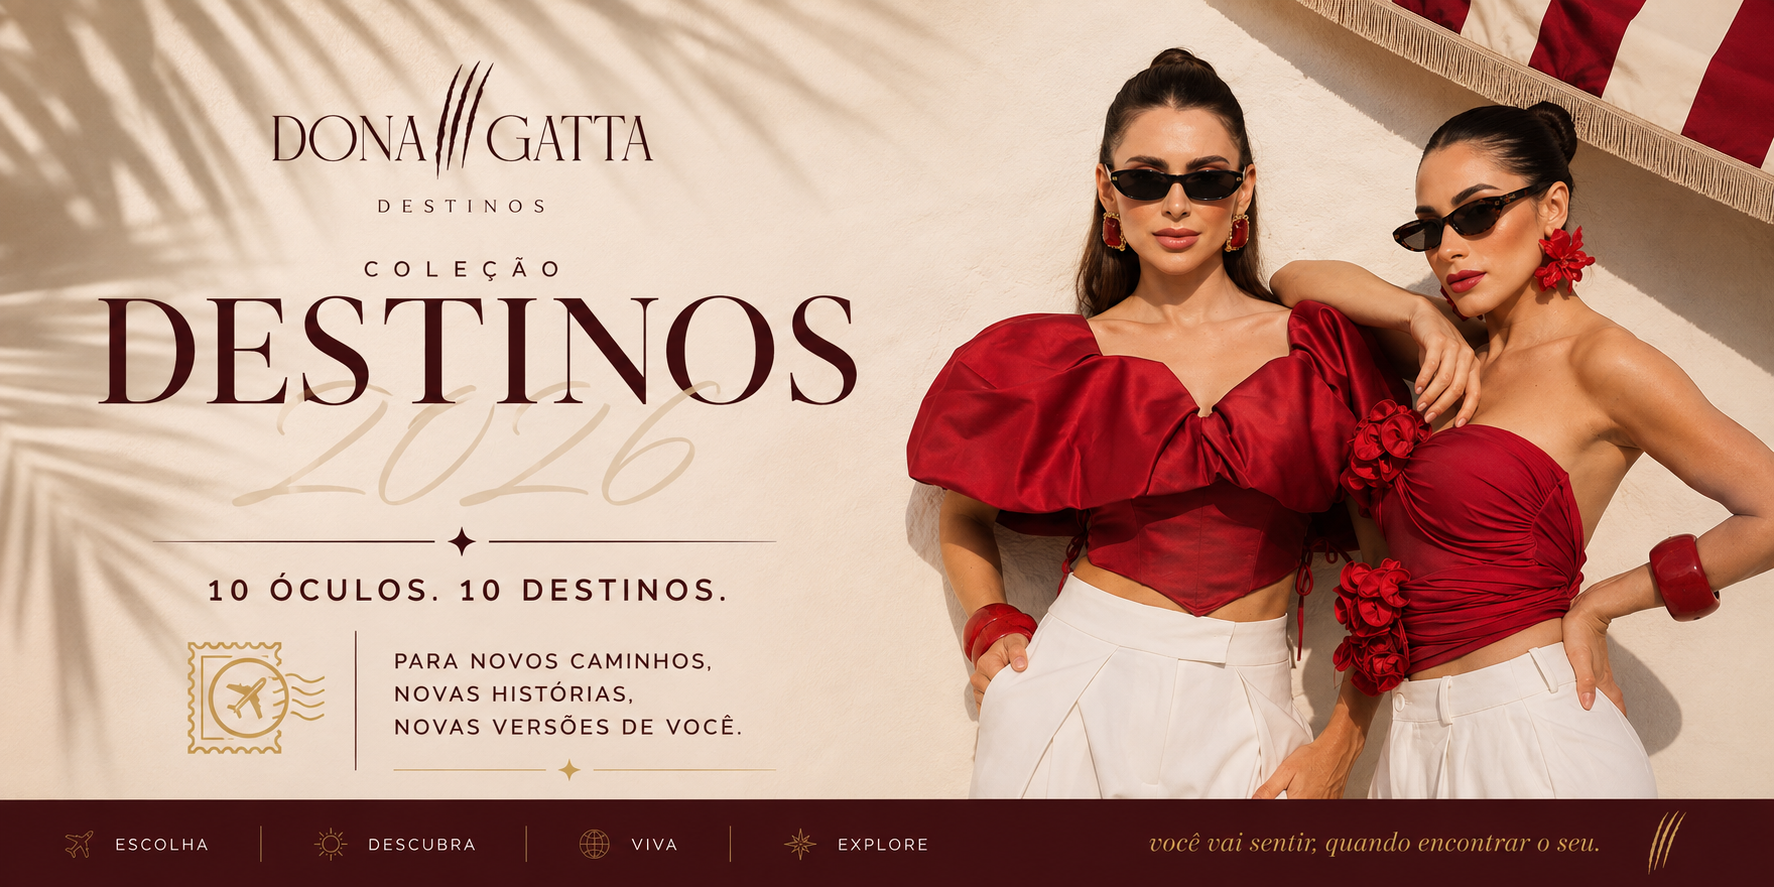
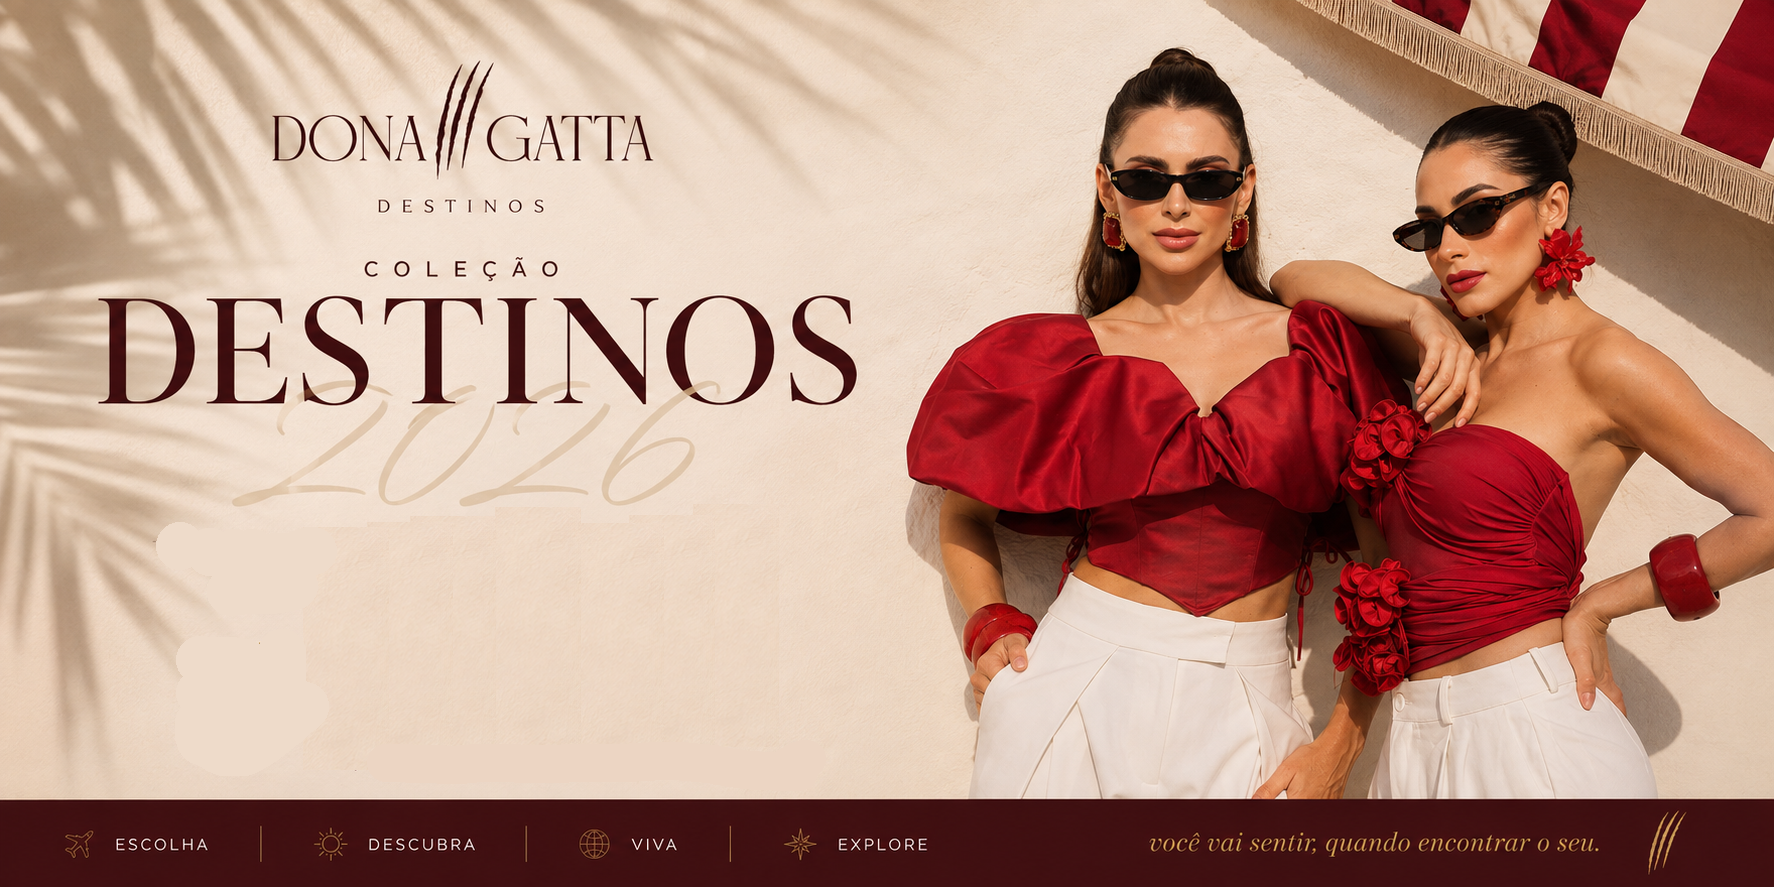
Aplicado entre as seções da página inicial:
- Linhas douradas com estrela central, no mesmo estilo do divisor da capa.
  - Animação suave de fade e expansão ao aparecer durante a rolagem.
  - Espaçamento adaptado para desktop e mobile.
  - Atualizei também o cache PWA para incluir o novo recurso.

Changed region(s): [[0.093, 0.6088, 0.403, 0.7001], [0.217, 0.7306, 0.403, 0.8828], [0.093, 0.7001, 0.186, 0.8523]]

diff --git a/index.html b/index.html
@@ -25,14 +25,15 @@
     @media(max-width:900px){.launch-grid,.brand-grid{grid-template-columns:1fr;gap:38px}.launch-gallery{height:520px;max-width:650px}.brand-grid{gap:45px}}
     @media(max-width:600px){.launch{padding:62px 0}.launch-grid{gap:31px}.launch-gallery{height:390px;gap:8px}.launch-gallery img:last-child{margin-top:32px;height:calc(100% - 32px)}.launch-copy h2{font-size:42px}.launch-copy p{font-size:19px}.launch-data{gap:18px}.brand-story{padding:62px 0}.brand-word{font-size:53px}.brand-story p{font-size:20px}.file-card{padding:15px}}
     .product-image{cursor:zoom-in}.product-modal{position:fixed;inset:0;z-index:50;display:grid;place-items:center;padding:22px;background:rgba(45,9,8,.74);opacity:0;visibility:hidden;transition:opacity .3s,visibility .3s}.product-modal.open{opacity:1;visibility:visible}.modal-card{width:min(860px,100%);background:#fffaf5;display:grid;grid-template-columns:1.05fr .95fr;position:relative;transform:translateY(18px) scale(.98);transition:transform .35s ease;overflow:hidden}.product-modal.open .modal-card{transform:none}.modal-image{min-height:450px;background:#f3e9e0;display:grid;place-items:center;padding:35px}.modal-image img{max-width:100%;max-height:430px;object-fit:contain;mix-blend-mode:multiply}.modal-content{padding:56px 45px;display:flex;justify-content:center;flex-direction:column}.modal-content .eyebrow{color:#9a6333;margin-bottom:15px}.modal-content h2{font-size:48px;line-height:.85;font-weight:400;margin:0 0 15px}.modal-content p{font-family:"Cormorant Garamond",serif;font-size:20px;line-height:1.25;margin:0 0 25px}.modal-content .price{font-size:13px;margin-bottom:26px}.modal-close{position:absolute;right:14px;top:13px;background:transparent;border:0;color:var(--wine);font-size:31px;font-weight:300;line-height:1;cursor:pointer;z-index:2}.whatsapp-btn{background:#315f42;border-color:#315f42;width:100%;letter-spacing:.1em}.whatsapp-btn:hover{color:#315f42}.modal-note{font-size:10px!important;margin:14px 0 0!important;color:#7e6259;text-align:center}@media(max-width:600px){.modal-card{grid-template-columns:1fr;max-height:calc(100svh - 44px);overflow:auto}.modal-image{min-height:260px;height:38svh;padding:22px}.modal-image img{max-height:100%}.modal-content{padding:28px 25px 25px}.modal-content h2{font-size:39px}.modal-content p{font-size:18px;margin-bottom:16px}.modal-content .price{margin-bottom:18px}}
-    .hero-bg{inset:0;background-image:url('Estilo01.webp')}.hero-alt{display:none}.hero-feature{display:block;width:188px;height:258px;object-fit:cover;object-position:center;border:1px solid rgba(255,255,255,.65);box-shadow:0 18px 38px rgba(64,16,16,.3);margin:0 auto 18px;opacity:0;animation:hero-feature-fade 1.1s .2s cubic-bezier(.16,1,.3,1) forwards}@keyframes hero-feature-fade{from{opacity:0;transform:translateY(20px) scale(.96);filter:blur(6px)}to{opacity:1;transform:none;filter:none}}.hero-actions{display:flex;justify-content:center;gap:10px}.hero-actions .btn{width:230px;min-height:58px;padding:12px 16px;text-align:center;line-height:1.35;letter-spacing:.1em}.hero-actions .btn-destinations{background:rgba(64,16,16,.88);border-color:rgba(255,255,255,.55);font-size:10px}.hero-actions .btn-destinations:hover{background:#d5a667;color:#401010;border-color:#d5a667}.hero-actions .btn-identity{background:#fff;color:var(--wine);border-color:#fff}.brand-board{border:1px solid rgba(231,194,151,.45);background:linear-gradient(135deg,rgba(106,36,31,.55),rgba(42,6,6,.18));overflow:hidden}.brand-principle{display:grid;grid-template-columns:64px 1fr;gap:19px;align-items:center;padding:21px 23px;position:relative}.brand-principle:not(:last-child){border-bottom:1px solid rgba(215,169,103,.43)}.brand-icon{width:59px;height:59px;border:1px solid #d5a667;color:#e0b76f;display:grid;place-items:center;font-size:27px;transition:transform .3s,background .3s}.brand-principle:hover .brand-icon{transform:rotate(-6deg) scale(1.06);background:rgba(213,166,103,.12)}.brand-index{font-size:9px;color:#d5a667;letter-spacing:.2em}.brand-principle h3{margin:4px 0 5px;color:#fff4e9;font-size:15px;line-height:1.1;letter-spacing:.08em;text-transform:uppercase;font-weight:500}.brand-principle p{margin:0!important;color:#e8cdbd!important;font:17px/1.15 "Cormorant Garamond",Georgia,serif!important;max-width:none!important}.brand-board img{display:none}@media(max-width:600px){.hero-feature{width:166px;height:224px;margin:0 0 15px;object-position:center}.hero-actions{display:grid;grid-template-columns:1fr;width:100%;gap:8px}.hero-actions .btn{width:100%;min-height:48px;padding:10px 14px;font-size:9px}.hero-actions .btn-destinations{font-size:9px}.brand-board{margin-top:-8px}.brand-principle{grid-template-columns:51px 1fr;gap:14px;padding:18px 16px}.brand-icon{width:49px;height:49px;font-size:23px}.brand-principle h3{font-size:12px}.brand-principle p{font-size:16px!important}}
+    .hero-bg{inset:0;background-image:url('Estilo01.webp')}.hero-alt{display:none}.hero-feature{display:block;width:188px;height:258px;object-fit:cover;object-position:center;border:1px solid rgba(255,255,255,.65);box-shadow:0 18px 38px rgba(64,16,16,.3);margin:0 auto 18px;opacity:0;animation:hero-feature-fade 1.1s .2s cubic-bezier(.16,1,.3,1) forwards}@keyframes hero-feature-fade{from{opacity:0;transform:translateY(20px) scale(.96);filter:blur(6px)}to{opacity:1;transform:none;filter:none}}.hero-actions{display:flex;justify-content:center;gap:10px}.hero-actions .btn{width:230px;min-height:58px;padding:12px 16px;text-align:center;line-height:1.35;letter-spacing:.1em}.hero-actions .btn-destinations{background:rgba(64,16,16,.88);border-color:rgba(255,255,255,.55);font-size:10px}.hero-actions .btn-destinations:hover{background:#d5a667;color:#401010;border-color:#d5a667}.hero-actions .btn-identity{background:#fff;color:var(--wine);border-color:#fff}.brand-board{border:1px solid rgba(231,194,151,.45);background:linear-gradient(135deg,rgba(106,36,31,.55),rgba(42,6,6,.18));overflow:hidden}.brand-principle{display:grid;grid-template-columns:64px 1fr;gap:19px;align-items:center;padding:21px 23px;position:relative}.brand-principle:not(:last-child){border-bottom:1px solid rgba(215,169,103,.43)}.brand-icon{width:59px;height:59px;border:1px solid #d5a667;color:#e0b76f;display:grid;place-items:center;font-size:27px;transition:transform .3s,background .3s}.brand-principle:hover .brand-icon{transform:rotate(-6deg) scale(1.06);background:rgba(213,166,103,.12)}.brand-index{font-size:9px;color:#d5a667;letter-spacing:.2em}.brand-principle h3{margin:4px 0 5px;color:#fff4e9;font-size:15px;line-height:1.1;letter-spacing:.08em;text-transform:uppercase;font-weight:500}.brand-principle p{margin:0!important;color:#e8cdbd!important;font:17px/1.15 "Cormorant Garamond",Georgia,serif!important;max-width:none!important}.brand-board img{display:none}@media(max-width:600px){.hero-feature{width:166px;height:224px;margin:0 auto 15px;object-position:center}.hero-actions{display:grid;grid-template-columns:1fr;width:100%;gap:8px}.hero-actions .btn{width:100%;min-height:48px;padding:10px 14px;font-size:9px}.hero-actions .btn-destinations{font-size:9px}.brand-board{margin-top:-8px}.brand-principle{grid-template-columns:51px 1fr;gap:14px;padding:18px 16px}.brand-icon{width:49px;height:49px;font-size:23px}.brand-principle h3{font-size:12px}.brand-principle p{font-size:16px!important}}
+    .hero-divider{display:flex;align-items:center;gap:12px;width:min(100%,360px);margin:0 auto 16px;color:#765022;opacity:0;animation:hero-divider-fade .8s .72s ease forwards}.hero-divider:before,.hero-divider:after{content:"";height:1px;flex:1;background:linear-gradient(90deg,transparent,#765022)}.hero-divider:after{background:linear-gradient(90deg,#765022,transparent)}.hero-divider span{font-size:28px;line-height:1;filter:drop-shadow(0 2px 3px rgba(255,245,220,.7))}@keyframes hero-divider-fade{from{opacity:0;transform:scaleX(.7)}to{opacity:1;transform:none}}@media(max-width:600px){.hero-divider{width:min(100%,310px);margin:0 auto 14px}.hero-divider span{font-size:24px}}
     .hero-actions .btn-destinations{color:#fff}
   </style>
 </head>
 <body>
   <header class="topbar"><nav class="wrap nav"><a href="#top" class="logo">DONA <i>///</i> GATTA</a><div class="links"><a class="active" href="#top">Início</a><a href="#colecoes">Coleções</a><a href="#colecoes">Óculos de sol</a><a href="#colecoes">Óculos de grau</a><a href="#sobre">Acessórios</a><a href="#footer">Sobre nós</a></div><div class="nav-icons"><button class="menu-toggle" aria-label="Abrir menu" aria-expanded="false"><span></span><span></span><span></span></button><button class="search-toggle" type="button" aria-label="Buscar"><svg viewBox="0 0 24 24" fill="none" stroke="currentColor"><circle cx="11" cy="11" r="6"/><path d="m16 16 5 5"/></svg></button></div></nav></header><aside class="mobile-menu" aria-label="Menu móvel"><a href="#top">Início</a><a href="#colecoes">Coleções</a><a href="#colecoes">Óculos de sol</a><a href="#colecoes">Óculos de grau</a><a href="#sobre">Acessórios</a><a href="#footer">Sobre nós</a><small>Dona Gatta · Coleção Destinos</small></aside>
   <main id="top">
-    <section class="hero"><div class="hero-bg"></div><div class="hero-shade"></div><div class="wrap"><div class="hero-copy reveal"><img class="hero-feature" src="Estilo03.webp" width="900" height="1600" alt="Coleção Destinos por Dona Gatta"><div class="hero-actions"><a href="#marca" class="btn btn-identity">Você tem seu estilo, a Dona tem todos.</a><a href="#colecoes" class="btn btn-destinations">Coleção DESTINOS: 10 solares, 10 destinos.<br>Você vai sentir, quando encontrar o seu.</a></div></div></div></section>
+    <section class="hero"><div class="hero-bg"></div><div class="hero-shade"></div><div class="wrap"><div class="hero-copy reveal"><img class="hero-feature" src="Estilo02.webp" width="900" height="1600" alt="Coleção Destinos por Dona Gatta"><div class="hero-divider" aria-hidden="true"><span>✦</span></div><div class="hero-actions"><a href="#marca" class="btn btn-identity">Você tem seu estilo, a Dona tem todos.</a><a href="#colecoes" class="btn btn-destinations">Coleção DESTINOS: 10 solares, 10 destinos.<br>Você vai sentir, quando encontrar o seu.</a></div></div></div></section>
     <section class="benefits"><div class="wrap"><div class="benefit"><svg viewBox="0 0 64 64"><circle cx="32" cy="32" r="14"/><path d="M32 3v10M32 51v10M3 32h10M51 32h10M11 11l7 7m28 28 7 7m0-42-7 7M18 46l-7 7"/></svg><div><strong>Proteção<br>com estilo</strong><span>lentes com proteção<br>UV 100%</span></div></div><div class="benefit"><svg viewBox="0 0 64 64"><path d="m32 6 25 15-25 37L7 21 32 6Z"/><path d="M7 21h50M32 6v52M20 40 44 40"/></svg><div><strong>Design<br>exclusivo</strong><span>armações selecionadas<br>e sofisticadas</span></div></div><div class="benefit"><svg viewBox="0 0 64 64"><path d="m32 5 4 11 12-1-7 10 7 9-12-1-4 11-4-11-12 1 7-9-7-10 12 1 4-11Z"/><path d="m9 39 3 7 8-1-5 6 3 7-7-4-6 5 1-8-7-4 8-1 2-7Z"/></svg><div><strong>Qualidade<br>premium</strong><span>materiais leves, resistentes<br>e confortáveis</span></div></div><div class="benefit"><svg viewBox="0 0 64 64"><path d="M4 16h35v28H4zM39 26h10l10 9v9H39z"/><circle cx="16" cy="49" r="5"/><circle cx="49" cy="49" r="5"/><path d="M10 23h20M10 30h13"/></svg><div><strong>Frete grátis</strong><span>nas compras acima<br>de R$299</span></div></div></div></section>
     <section class="collection" id="colecoes"><div class="wrap"><div class="section-title"><h2 class="display">MODELOS EM DESTAQUE</h2><a class="see-all" href="catalogo.html">Ver todos <b>›</b></a></div><div class="swiper products"><div class="swiper-wrapper"></div></div></div></section>
     <section class="editorial" id="sobre"><div class="editorial-copy reveal"><h2 class="display">SEU ESTILO.<br>SEU DESTINO.</h2><p>Óculos que traduzem você <em>e</em><br>elevam cada detalhe do seu olhar.</p><a class="btn" href="#colecoes">Confira em breve <span class="spark">✦</span></a><span class="stamp">✈</span></div></section>

diff --git a/sw.js b/sw.js
@@ -1,1 +1,5 @@
-const CACHE='dona-gatta-v7',CORE=['./','./index.html','./catalogo.html','./modelo.css','./motion.js','./mobile-app.js','./mobile-reel.js','./mobile-refresh.js','./menu-icons.js','./favorites-experience.js','./install-prompt.js','./site-search.js','./whatsapp-modelo.js','./manifest.webmanifest','./app-icon.svg'];self.addEventListener('install',e=>e.waitUntil(caches.open(CACHE).then(c=>c.addAll(CORE)).then(()=>self.skipWaiting())));self.addEventListener('activate',e=>e.waitUntil(caches.keys().then(keys=>Promise.all(keys.filter(k=>k!==CACHE).map(k=>caches.delete(k)))).then(()=>self.clients.claim())));self.addEventListener('fetch',e=>{if(e.request.method!=='GET'||new URL(e.request.url).origin!==location.origin)return;e.respondWith(caches.match(e.request).then(hit=>hit||fetch(e.request).then(response=>{caches.open(CACHE).then(c=>c.put(e.request,response.clone()));return response}).catch(()=>caches.match('./index.html'))))});
+const CACHE='dona-gatta-v10';
+const CORE=['./','./index.html','./catalogo.html','./modelo.css','./motion.js','./mobile-app.js','./mobile-reel.js','./mobile-refresh.js','./menu-icons.js','./favorites-experience.js','./install-prompt.js','./site-search.js','./section-dividers.js','./whatsapp-modelo.js','./manifest.webmanifest','./app-icon.svg'];
+self.addEventListener('install',event=>event.waitUntil(caches.open(CACHE).then(cache=>cache.addAll(CORE)).then(()=>self.skipWaiting())));
+self.addEventListener('activate',event=>event.waitUntil(caches.keys().then(keys=>Promise.all(keys.filter(key=>key!==CACHE).map(key=>caches.delete(key)))).then(()=>self.clients.claim())));
+self.addEventListener('fetch',event=>{if(event.request.method!=='GET'||new URL(event.request.url).origin!==location.origin)return;event.respondWith(caches.match(event.request).then(hit=>hit||fetch(event.request).then(response=>{caches.open(CACHE).then(cache=>cache.put(event.request,response.clone()));return response}).catch(()=>caches.match('./index.html'))))});

diff --git a/section-dividers.js b/section-dividers.js
@@ -1,0 +1,21 @@
+(() => {
+  if (!document.querySelector('.topbar')) return;
+  const sections = [...document.querySelectorAll('main > section')];
+  if (sections.length < 2) return;
+  const style = document.createElement('style');
+  style.textContent = '.section-divider{height:52px;display:flex;align-items:center;gap:13px;justify-content:center;padding:0 max(20px,calc((100% - 360px)/2));background:#fbf4ee;color:#765022;opacity:0;transform:scaleX(.76);transition:opacity .7s ease,transform .7s cubic-bezier(.16,1,.3,1)}.section-divider.is-visible{opacity:1;transform:none}.section-divider:before,.section-divider:after{content:"";height:1px;flex:1;background:linear-gradient(90deg,transparent,#765022)}.section-divider:after{background:linear-gradient(90deg,#765022,transparent)}.section-divider span{font-size:25px;line-height:1;filter:drop-shadow(0 2px 3px rgba(255,245,220,.8))}@media(max-width:600px){.section-divider{height:42px;padding:0 30px}.section-divider span{font-size:21px}}';
+  document.head.append(style);
+  const dividers = sections.slice(0, -1).map(section => {
+    const divider = document.createElement('div');
+    divider.className = 'section-divider';
+    divider.setAttribute('aria-hidden', 'true');
+    divider.innerHTML = '<span>✦</span>';
+    section.after(divider);
+    return divider;
+  });
+  if (!('IntersectionObserver' in window)) return dividers.forEach(divider => divider.classList.add('is-visible'));
+  const observer = new IntersectionObserver(entries => entries.forEach(entry => {
+    if (entry.isIntersecting) { entry.target.classList.add('is-visible'); observer.unobserve(entry.target); }
+  }), { threshold: .25 });
+  dividers.forEach(divider => observer.observe(divider));
+})();

diff --git a/motion.js b/motion.js
@@ -84,3 +84,4 @@ const menuIcons=document.createElement('script');menuIcons.src='menu-icons.js';m
 const favoritesExperience=document.createElement('script');favoritesExperience.src='favorites-experience.js';favoritesExperience.async=false;document.body.append(favoritesExperience);
 const installPrompt=document.createElement('script');installPrompt.src='install-prompt.js';installPrompt.async=false;document.body.append(installPrompt);
 const siteSearch=document.createElement('script');siteSearch.src='site-search.js';siteSearch.async=false;document.body.append(siteSearch);
+const sectionDividers=document.createElement('script');sectionDividers.src='section-dividers.js';sectionDividers.async=false;document.body.append(sectionDividers);
